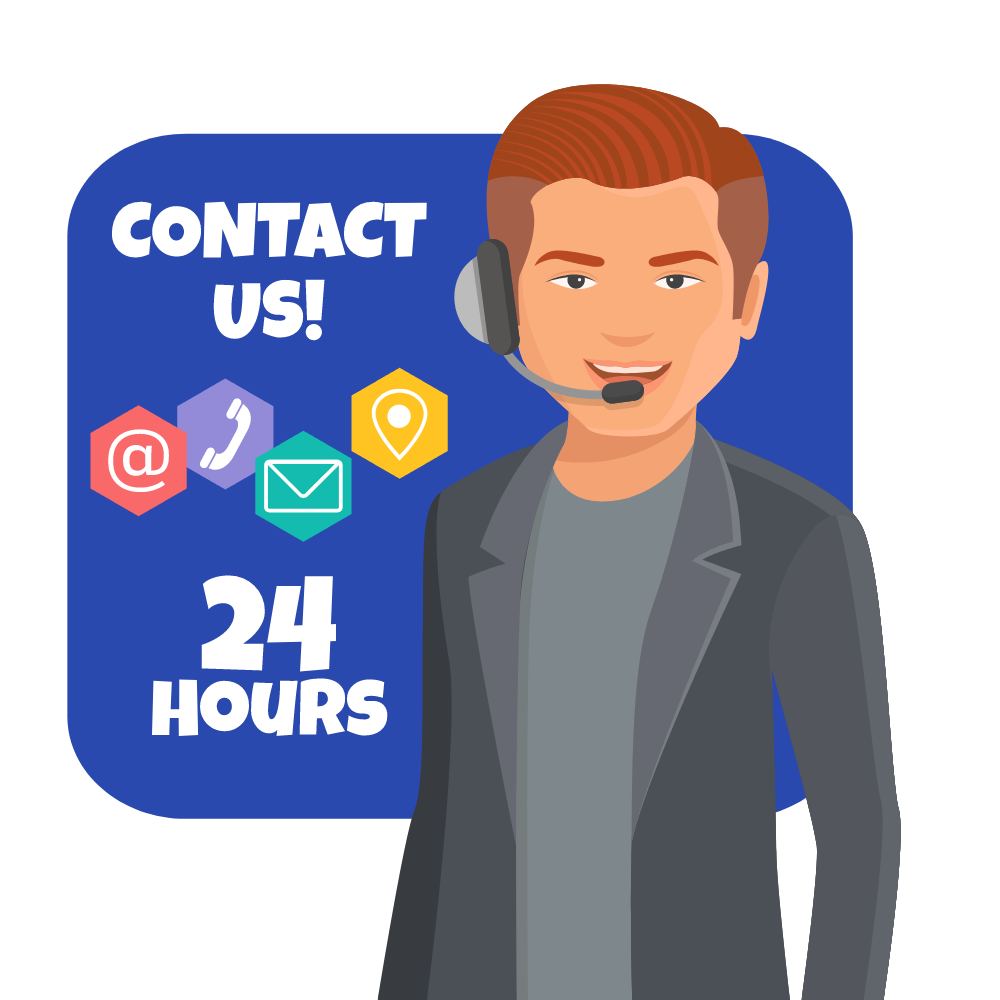
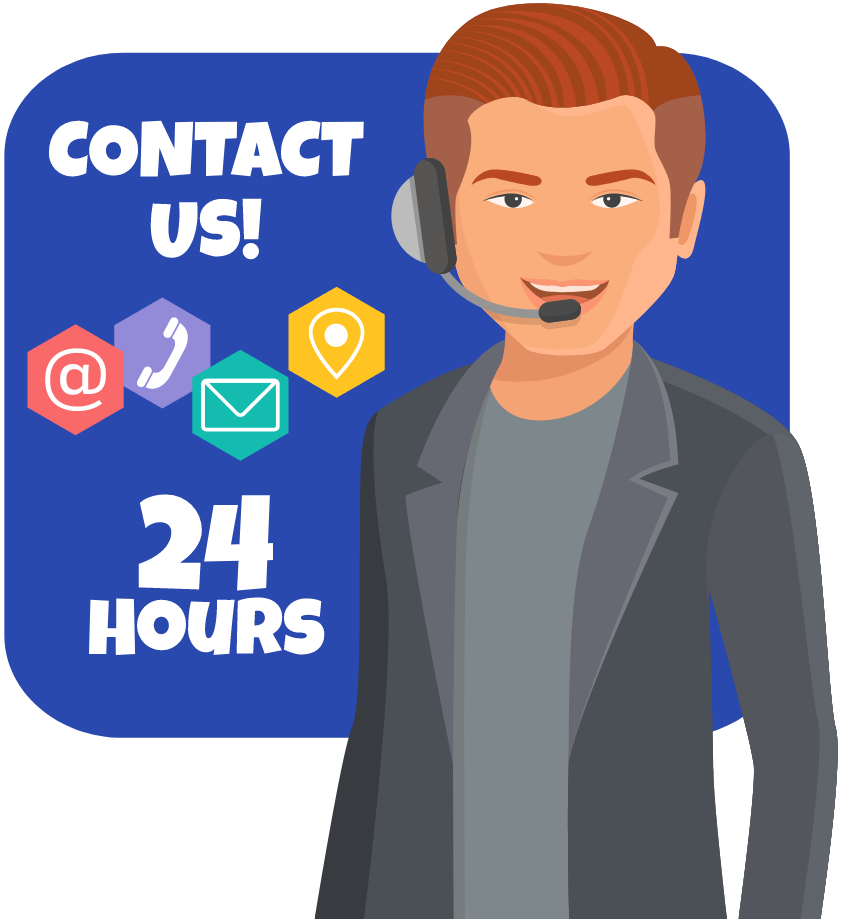
add contact page

diff --git a/contact.html b/contact.html
@@ -14,7 +14,7 @@
     <div class="container">
       <header>
         <nav>
-          <h3 class="logo">desi.gn</h3>
+          <h3><a class="logo" href="index.html">desi.gn</a></h3>
           <ul class="menu">
             <li>Home</li>
             <li>Features</li>
@@ -27,21 +27,18 @@
         </nav>
       </header>
       <section>
-        <div class="description">
-          <div class="left-section" style="margin-left: 0">
-            <h1 class="title">Contact Us <br /></h1>
-            <p class="para">
+        <div>
+          <div>
+            <h1 class="title" style="text-align: center">Contact Us <br /></h1>
+            <p class="para" style="text-align: center">
               Get unlimited designs in areas such as web design, app design, brochures and much more for a flat monthly
               fee. No additional charges.
             </p>
           </div>
-          <div class="left-section contact-img">
-            <img class="" src="asset/contact.png" />
-          </div>
         </div>
       </section>
-      <section>
-        <div class="form">
+      <section class="description">
+        <div class="form1" style="margin-left: 0">
           <div class="center">
             <form action="" method="post" class="main">
               <div class="input">
@@ -63,7 +60,11 @@
             </form>
           </div>
         </div>
+        <div class="contact-img">
+          <img class="" src="asset/contact.png" />
+        </div>
       </section>
+      <footer>Made with ❤ by CHAOS 🌪</footer>
     </div>
   </body>
 </html>

diff --git a/asset/style.css b/asset/style.css
@@ -151,14 +151,16 @@ li {
     border: 1px solid rgb(228, 228, 228);
     border-radius: 4px;
     background-color: #FFFFFF;
+    transition: all 0.2s ease;
 
 }
 
-/* .fiche:hover {
+.fiche:hover {
+    transition: all 0.2s ease-in;
     transform: scale(1.2);
     box-shadow: 0px 7px 19px 1px #767676;
     background-color: rgb(217, 246, 254);
-} */
+}
 
 .fiche img {
     width: 45px;
@@ -309,6 +311,7 @@ footer {
 }
 
 .form {
+
     padding-top: 30px;
     display: flex;
     flex-direction: row;
@@ -316,22 +319,29 @@ footer {
     /* align-items: baseline; */
 }
 
+.form1 {
+    margin-right: 5%;
+    width: 100%;
+}
+
 .input {
     width: 100%;
 }
 
 .center {
-    width: 70%;
+    /* width: 70%; */
 }
 
 .main {
-    /* background-color: white; */
-    box-shadow: 0px 0px 25px 0px rgba(0, 0, 0, 0.25);
+    border: 1px solid #9292925e;
+    background-color: #FFF3D9;
+    /* box-shadow: 0px 0px 25px 0px rgb(0 0 0 / 25%); */
     padding: 4rem;
-    border-radius: 3rem;
+    border-radius: 2rem;
 }
 
 .contact-img img {
+    width: 420px;
     -webkit-filter: drop-shadow(7px 6px 0px #2222225d);
     filter: drop-shadow(7px 6px 0px #2222225d);
     /* -webkit-box-shadow: 10px 6px 0px 0px rgba(0, 0, 0, 0.25); */

diff --git a/index.html b/index.html
@@ -14,7 +14,7 @@
     <div class="container">
       <header>
         <nav>
-          <h3 class="logo">desi.gn</h3>
+          <h3><a class="logo" href="index.html">desi.gn</a></h3>
           <ul class="menu">
             <li>Home</li>
             <li>Features</li>
